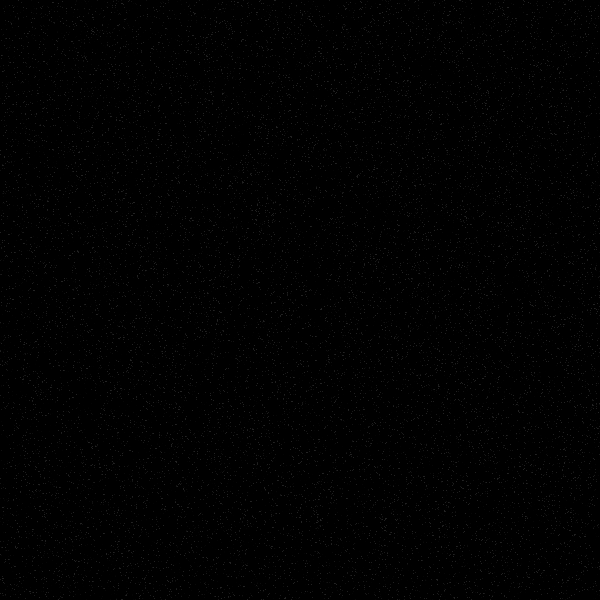
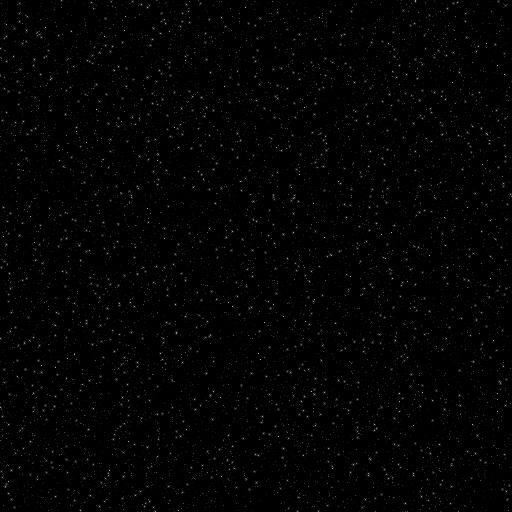
Working on menu. Adding nebula.

Changed region(s): [[0.7188, 0.8125, 0.75, 0.8438], [0.5625, 0.375, 0.5938, 0.4062], [0.2188, 0.125, 0.25, 0.1562]]

diff --git a/dist/js/game.js b/dist/js/game.js
@@ -80,36 +80,76 @@ module.exports = GameOver;
 function Menu() {}
 
 Menu.prototype = {
-  preload: function() {
-
-  },
+//  preload: function() {
+//  },
+  ship: null,
+  uiLayer: null,
   create: function() {
-    var style = { font: '65px Arial', fill: '#ffffff', align: 'center'};
-    this.sprite = this.game.add.sprite(this.game.world.centerX, 138, 'ship');
-    this.sprite.anchor.setTo(0.5, 0.5);
+    var game = this.game;
 
+    var style = { font: '65px Arial', fill: '#ffffff', align: 'center'};
+
+    // Create a layer for the Background
+    this.backgroundLayer = this.game.add.group();
+
+    this.background = this.game.add.tileSprite(0, 0, this.game.stage.bounds.width, this.game.stage.bounds.height, "background");
+
+    this.backgroundLayer.add(this.background);
+
+    // Create the stars
+    for (var i = 0; i < 8; i++) {
+      this.backgroundLayer.add(this.createNebula() );
+    };
+
+    // Build the main UI elements
     this.titleText = this.game.add.text(this.game.world.centerX, 300, 'A Wind to Shake the Stars', style);
     this.titleText.anchor.setTo(0.5, 0.5);
-
-    this.instructionsText = this.game.add.text(this.game.world.centerX, 400, 'Find the planet. Dodge the stars.', { font: '16px Arial', fill: '#ffffff', align: 'center'});
+    this.instructionsText = this.game.add.text(this.game.world.centerX, 395, 'Find the planet. Dodge the stars.', { font: '24px Arial', fill: '#ffffff', align: 'center'});
     this.instructionsText.anchor.setTo(0.5, 0.5);
+    this.button = this.game.add.button(this.game.world.centerX - 198, 450, 'button', this.startButton, this);
+    this.buttonText = this.game.add.text(this.game.world.centerX - 60, 485, 'START', { font: '35px Arial', fill: '#ffffff', align: 'center', cursor: 'pointer'});
 
-    this.sprite.angle = -20;
-    this.game.add.tween(this.sprite).to({angle: 20}, 1000, Phaser.Easing.Linear.NONE, true, 0, 1000, true);
+    // Create a layer for the UI
+    this.uiLayer = this.game.add.group();
+    this.uiLayer.add(this.titleText);
+    this.uiLayer.add(this.instructionsText);
+    this.uiLayer.add(this.button);
+    this.uiLayer.add(this.buttonText);
 
+    // create the ship
+    this.ship = this.game.add.sprite(-45, 500, 'ship');
+    this.ship.anchor.setTo(0.5, 0.5);
 
-
-    var button = this.game.add.button(this.game.world.centerX - 198, 450, 'button', this.startButton);
-    this.titleText = this.game.add.text(this.game.world.centerX - 60, 485, 'START', { font: '35px Arial', fill: '#ffffff', align: 'center', cursor: 'pointer'});
   },
 
-  startButton: function () {
-    this.game.state.start('play');
+  startButton: function (game, uiLayer, ship) {
+    var shipOutro = this.game.add.tween(this.ship).to({x: 1030}, 1000, Phaser.Easing.Linear.NONE, false);
+    var menuOutro = this.game.add.tween(this.uiLayer).to({alpha: 0}, 1000, Phaser.Easing.Linear.NONE, false);
+    var backgroundOutro = this.game.add.tween(this.background).to({alpha: 0}, 1000, Phaser.Easing.Linear.NONE, false);
+
+
+    shipOutro.chain(menuOutro);
+    shipOutro.chain(backgroundOutro);
+
+//    console.log(this.ship)
+//    this.game.state.start('play');
   },
-//  update: function() {
-//    if(this.game.input.activePointer.justPressed()) {
-//    }
-//  }
+
+  update: function() {
+    this.background.tilePosition.x -= 0.5;
+  },
+
+  createNebula: function(){
+    var newNebula = this.game.add.sprite(this.game.world.randomX, this.game.world.randomY, 'nebula' + this.game.rnd.integerInRange(1, 3));
+
+    this.game.physics.enable(newNebula, Phaser.Physics.ARCADE);
+    newNebula.alpha = 0.5;
+
+    newNebula.body.enable;
+    newNebula.body.angularVelocity = this.game.rnd.integerInRange(-2, 2);
+
+    return newNebula;
+  }
 };
 
 module.exports = Menu;
@@ -135,6 +175,8 @@ module.exports = Menu;
       var game = this.game;
       var difficulty = [5, 3, 1];
       console.log(game.uiState);
+
+      this.background = this.game.add.tileSprite(0, 0, 1000, 750, "background");
 
       // Init keyboard
       this.playerCursorKeys = game.input.keyboard.createCursorKeys();
@@ -320,6 +362,9 @@ Preload.prototype = {
     this.load.image('goal', 'assets/earth-64.png');
     this.load.image('button', 'assets/button.png');
     this.load.image('background', 'assets/background.png');
+    this.load.image('nebula1', 'assets/nebula1.png');
+    this.load.image('nebula2', 'assets/nebula2.png');
+    this.load.image('nebula3', 'assets/nebula3.png');
   },
   create: function() {
     this.asset.cropEnabled = false;

diff --git a/game/states/menu.js b/game/states/menu.js
@@ -3,36 +3,76 @@
 function Menu() {}
 
 Menu.prototype = {
-  preload: function() {
-
-  },
+//  preload: function() {
+//  },
+  ship: null,
+  uiLayer: null,
   create: function() {
-    var style = { font: '65px Arial', fill: '#ffffff', align: 'center'};
-    this.sprite = this.game.add.sprite(this.game.world.centerX, 138, 'ship');
-    this.sprite.anchor.setTo(0.5, 0.5);
+    var game = this.game;
 
+    var style = { font: '65px Arial', fill: '#ffffff', align: 'center'};
+
+    // Create a layer for the Background
+    this.backgroundLayer = this.game.add.group();
+
+    this.background = this.game.add.tileSprite(0, 0, this.game.stage.bounds.width, this.game.stage.bounds.height, "background");
+
+    this.backgroundLayer.add(this.background);
+
+    // Create the stars
+    for (var i = 0; i < 8; i++) {
+      this.backgroundLayer.add(this.createNebula() );
+    };
+
+    // Build the main UI elements
     this.titleText = this.game.add.text(this.game.world.centerX, 300, 'A Wind to Shake the Stars', style);
     this.titleText.anchor.setTo(0.5, 0.5);
-
-    this.instructionsText = this.game.add.text(this.game.world.centerX, 400, 'Find the planet. Dodge the stars.', { font: '16px Arial', fill: '#ffffff', align: 'center'});
+    this.instructionsText = this.game.add.text(this.game.world.centerX, 395, 'Find the planet. Dodge the stars.', { font: '24px Arial', fill: '#ffffff', align: 'center'});
     this.instructionsText.anchor.setTo(0.5, 0.5);
+    this.button = this.game.add.button(this.game.world.centerX - 198, 450, 'button', this.startButton, this);
+    this.buttonText = this.game.add.text(this.game.world.centerX - 60, 485, 'START', { font: '35px Arial', fill: '#ffffff', align: 'center', cursor: 'pointer'});
 
-    this.sprite.angle = -20;
-    this.game.add.tween(this.sprite).to({angle: 20}, 1000, Phaser.Easing.Linear.NONE, true, 0, 1000, true);
+    // Create a layer for the UI
+    this.uiLayer = this.game.add.group();
+    this.uiLayer.add(this.titleText);
+    this.uiLayer.add(this.instructionsText);
+    this.uiLayer.add(this.button);
+    this.uiLayer.add(this.buttonText);
 
+    // create the ship
+    this.ship = this.game.add.sprite(-45, 500, 'ship');
+    this.ship.anchor.setTo(0.5, 0.5);
 
-
-    var button = this.game.add.button(this.game.world.centerX - 198, 450, 'button', this.startButton);
-    this.titleText = this.game.add.text(this.game.world.centerX - 60, 485, 'START', { font: '35px Arial', fill: '#ffffff', align: 'center', cursor: 'pointer'});
   },
 
-  startButton: function () {
-    this.game.state.start('play');
+  startButton: function (game, uiLayer, ship) {
+    var shipOutro = this.game.add.tween(this.ship).to({x: 1030}, 1000, Phaser.Easing.Linear.NONE, false);
+    var menuOutro = this.game.add.tween(this.uiLayer).to({alpha: 0}, 1000, Phaser.Easing.Linear.NONE, false);
+    var backgroundOutro = this.game.add.tween(this.background).to({alpha: 0}, 1000, Phaser.Easing.Linear.NONE, false);
+
+
+    shipOutro.chain(menuOutro);
+    shipOutro.chain(backgroundOutro);
+
+//    console.log(this.ship)
+//    this.game.state.start('play');
   },
-//  update: function() {
-//    if(this.game.input.activePointer.justPressed()) {
-//    }
-//  }
+
+  update: function() {
+    this.background.tilePosition.x -= 0.5;
+  },
+
+  createNebula: function(){
+    var newNebula = this.game.add.sprite(this.game.world.randomX, this.game.world.randomY, 'nebula' + this.game.rnd.integerInRange(1, 3));
+
+    this.game.physics.enable(newNebula, Phaser.Physics.ARCADE);
+    newNebula.alpha = 0.5;
+
+    newNebula.body.enable;
+    newNebula.body.angularVelocity = this.game.rnd.integerInRange(-2, 2);
+
+    return newNebula;
+  }
 };
 
 module.exports = Menu;

diff --git a/game/states/preload.js b/game/states/preload.js
@@ -20,6 +20,9 @@ Preload.prototype = {
     this.load.image('goal', 'assets/earth-64.png');
     this.load.image('button', 'assets/button.png');
     this.load.image('background', 'assets/background.png');
+    this.load.image('nebula1', 'assets/nebula1.png');
+    this.load.image('nebula2', 'assets/nebula2.png');
+    this.load.image('nebula3', 'assets/nebula3.png');
   },
   create: function() {
     this.asset.cropEnabled = false;

diff --git a/game/states/play.js b/game/states/play.js
@@ -19,6 +19,8 @@
       var difficulty = [5, 3, 1];
       console.log(game.uiState);
 
+      this.background = this.game.add.tileSprite(0, 0, 1000, 750, "background");
+
       // Init keyboard
       this.playerCursorKeys = game.input.keyboard.createCursorKeys();
 

diff --git a/css/styles.css b/css/styles.css
@@ -7,5 +7,4 @@ body {
   width: 1000px;
   margin-left: auto;
   margin-right: auto;
-  cursor: pointer;
 }

diff --git a/dist/css/styles.css b/dist/css/styles.css
@@ -7,5 +7,4 @@ body {
   width: 1000px;
   margin-left: auto;
   margin-right: auto;
-  cursor: pointer;
 }
